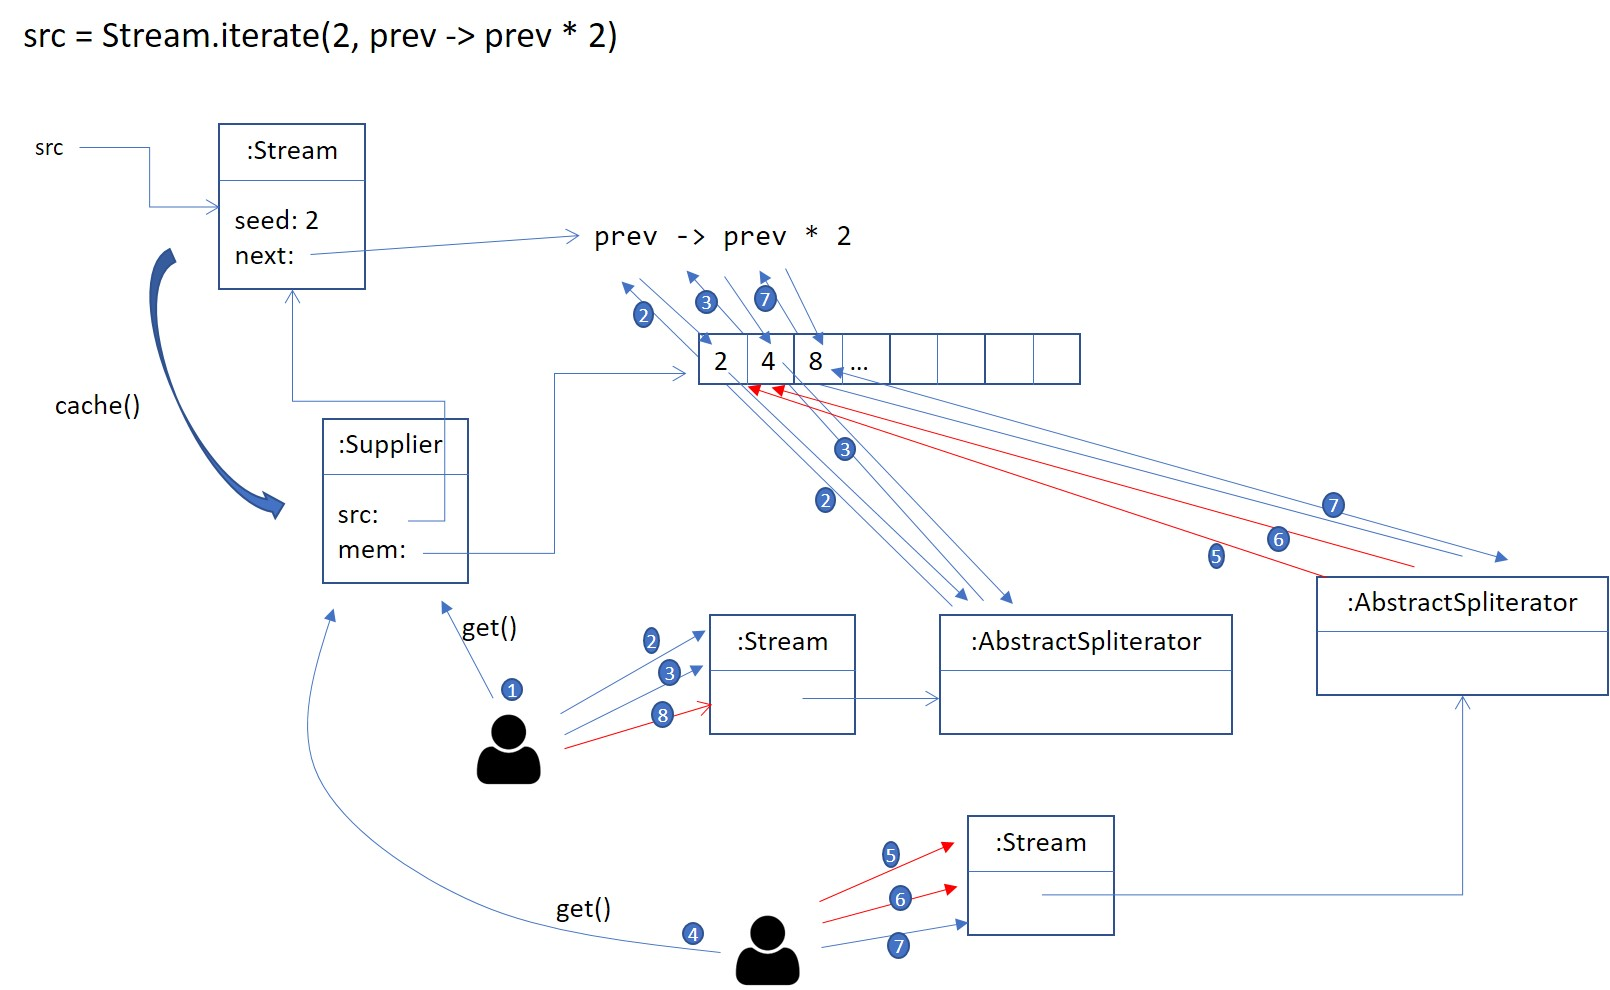
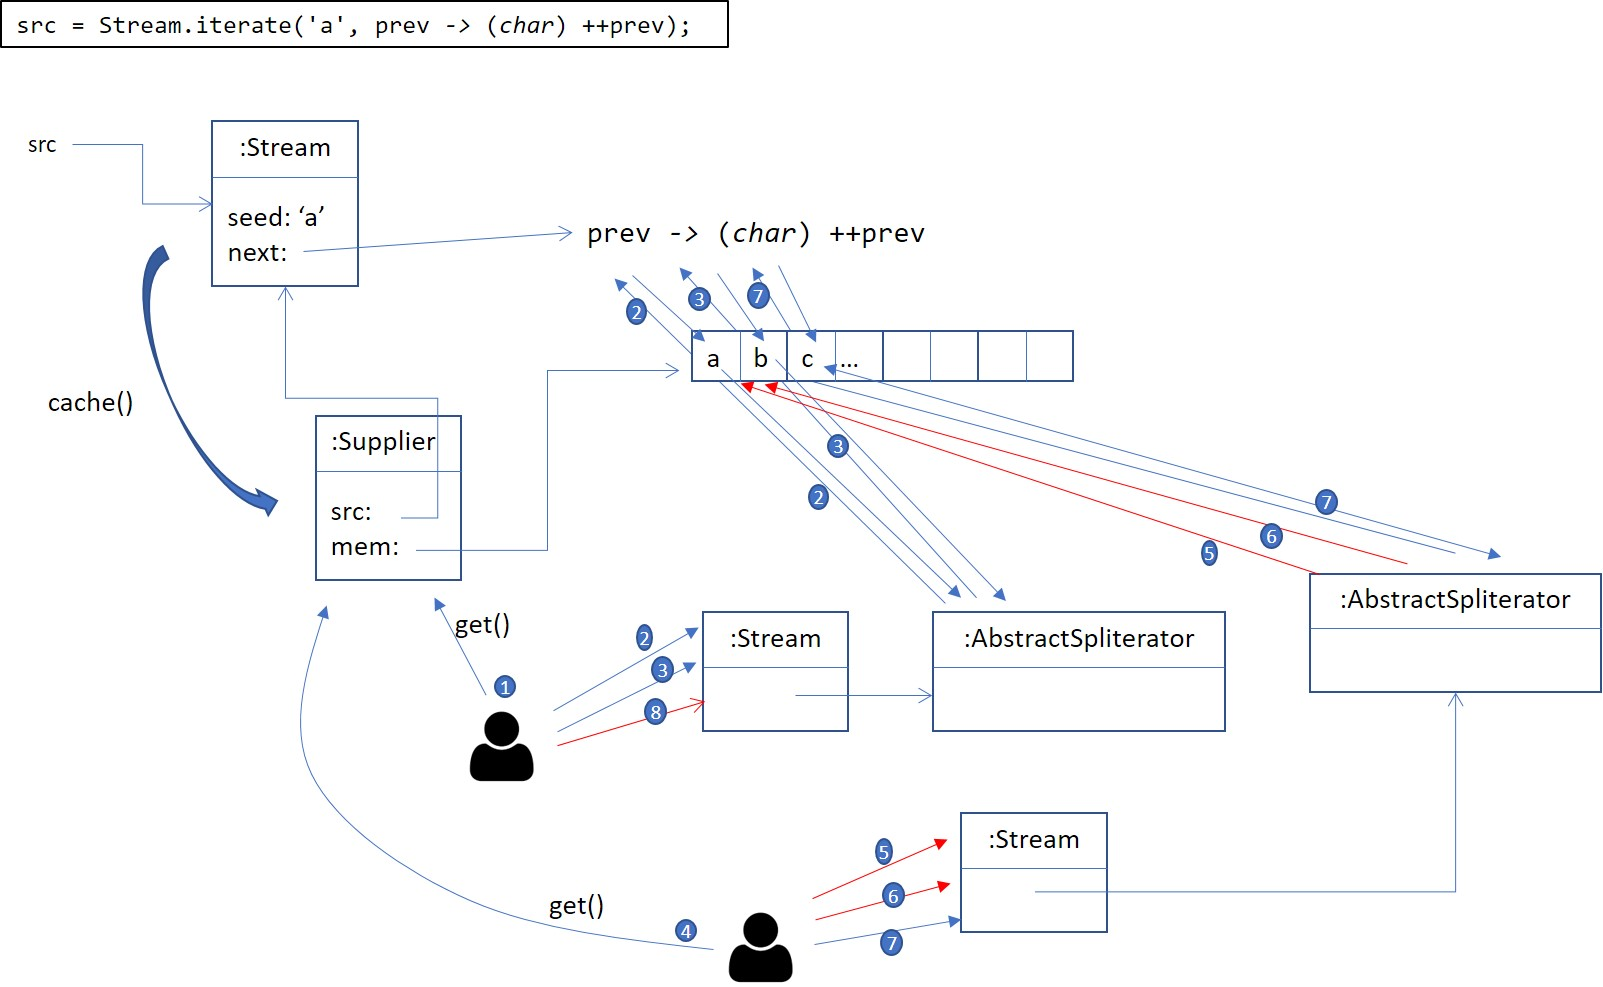
trab 2 fixes

diff --git a/trabalho2.md b/trabalho2.md
@@ -18,8 +18,8 @@ Copie do módulo `boardstar-lazy` para o módulo `boardstar-streams` todo o cont
 do sub-package `boardstar` incluindo entidades de domínio, serviços e DTOs.
 
 No módulo `boardstar-streams` substitua a utilização de:
-1. `Iterator<T>` por `Stream<T>`
-2. `Iterable<T>` por `Supplier<Stream<T>>`
+1. `Iterator<T>` por `Stream<T>`.
+2. `Iterable<T>` por `Stream<T>` ou `Supplier<Stream<T>>`.
 2. `LazyQueries` pelos métodos default de `Stream<T>`.
 
 Implemente numa nova classe auxiliar `StreamUtils` o método 
@@ -44,13 +44,13 @@ Note que os elementos das sequências resultantes de `cache()` podem ser obtidos
 entre sequências, tal como apresenta o exemplo de intercalação de 8 acções na imagem seguinte:
 
 * 1 Obtém uma sequênca do `Supplier` retornado por `cache()`.
-* 2 e 3 Lê os valores 2 e 4 da sequência resultante de 1. que não existiam em memória e
+* 2 e 3 Lê os valores `a` e `b` da sequência resultante de 1. que não existiam em memória e
 foram obtidos da sequência fonte (`src`) e adicionados em `mem`.
 * 4 Obtém uma nova sequênca do `Supplier` retornado por `cache()`.
-* 5 e 6 Lê os valores 2 e 4 da sequência resultante de 4. que já estavam em memória.
-* 7 Lê o valor 8 da sequência resultante de 4. que não existia em memória e
+* 5 e 6 Lê os valores `a` e `b` da sequência resultante de 4. que já estavam em memória.
+* 7 Lê o valor `c` da sequência resultante de 4. que não existia em memória e
 foi obtido da sequência fonte (`src`) e adicionados em `mem`.
-* 8 Lê o valor 8 da sequência resultante de 1. que já estavam em memória.
+* 8 Lê o valor `c` da sequência resultante de 1. que já estavam em memória.
 
 <img src="assets/cache.jpg" width="800px"/> 
 
